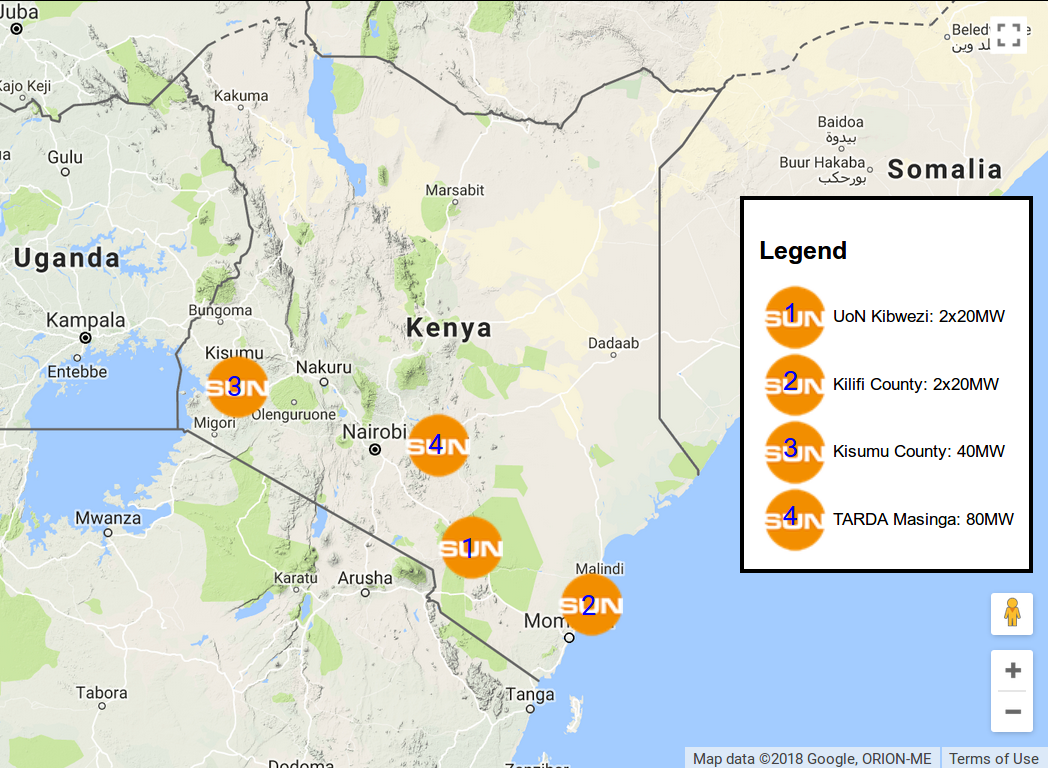
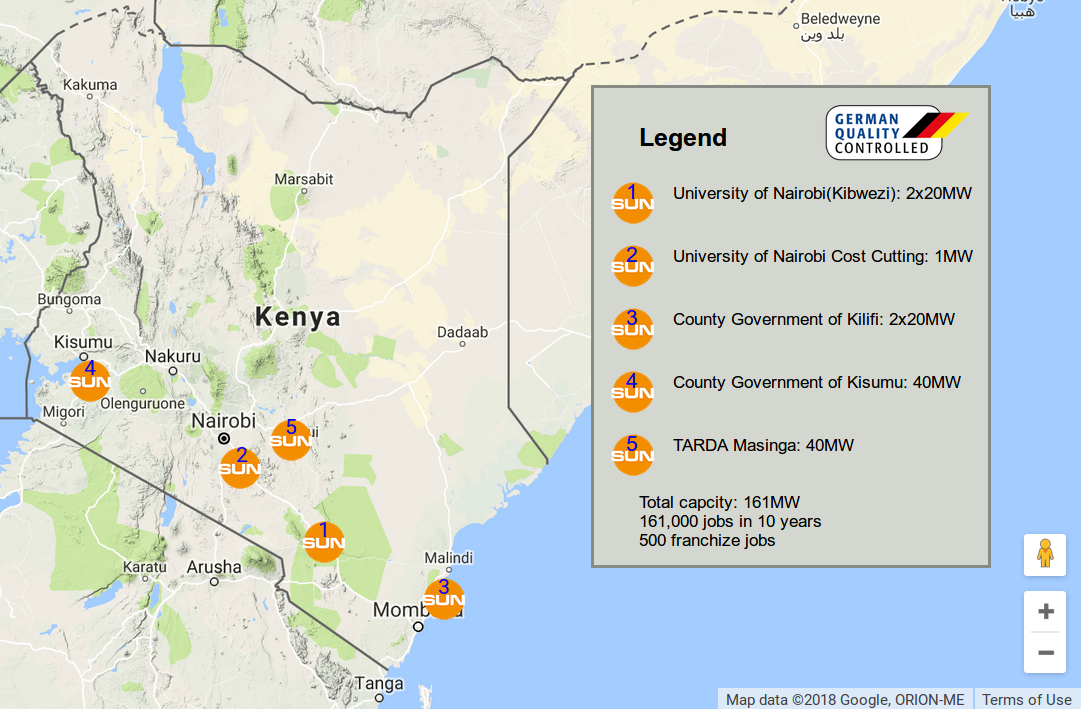
Pimp the legend
Add quality controlled image to the legend DIV
Add CSS code to position the quality controlled image to the right of the Legend title
Correct the spellings of the image name

diff --git a/sunfarmingProjects/sunfarmingProjects.html b/sunfarmingProjects/sunfarmingProjects.html
@@ -13,18 +13,19 @@
       #map {
         height: 100%;
       }
-      #legend {
+      div#legend {
         font-family: Arial, sans-serif;
         background: #d3d7cf;
         padding: 10px;
         margin: 10px;
         padding-top: -10px;
+        margin-right:60px;
         border: 2px solid #888a85;
       }
       #legend h3 {
         margin-top: 0;
       }
-      #legend img {
+      #legend img.logo {
         vertical-align: middle;
         width:30px; 
         margin-top:12px;
@@ -47,6 +48,26 @@
 	  	margin-top:10px;
 	  	border:0px solid red;
 	  }
+	  div#top{
+	  	width:100%;
+	  	border:0px solid orange;
+	  	height: 40px;
+	  	display:inline-flex;
+	  }
+	  div.inner{
+	  	border: 0px solid red;
+	  }
+	  div.inner img{
+	  	margin:0;
+	  	padding:0;
+	  	width:100px;
+	  }
+	  div#right{
+	  	margin-left:auto; amrgin-right:0;
+	  }
+	  div#left{
+	  	margin-left:20px;
+	  }
     </style>
 	<script type="text/javascript" src="http://maps.googleapis.com/maps/api/js?v=3&sensor=false&libraries=geometry"></script>
     <script src="../infobox.js" type="text/javascript"></script>
@@ -55,6 +76,11 @@
   </head>
   <body onload=initMap()>
     <div id="map"></div>
-    <div id="legend"><h2>Legend</h2></div>
+    <div id="legend">
+    	<div id="top">
+    		<div class="inner" id="left"> <h2>Legend</h2> </div>
+    		<div class="inner" id="right"><img src="quality_controlled.png" /></div>
+    	</div>
+    </div>
   </body>
 </html>

diff --git a/sunfarmingProjects/sunfarmingProjects.js b/sunfarmingProjects/sunfarmingProjects.js
@@ -51,7 +51,7 @@ function initMap(){
 		    });
 		    var div = document.createElement('div');
 		    var icon = sImage
-			div.innerHTML = '<img src="SUNFARMING.png"/><span class=icontext> ' + project.index.toString()+'</span><span class="right"> '+ project.name+'</span>';
+			div.innerHTML = '<img class="logo" src="SUNFARMING.png"/><span class=icontext> ' + project.index.toString()+'</span><span class="right"> '+ project.name+'</span>';
 			legend.appendChild(div);
 		}else{//show infobox type
 			var sOptions = {
